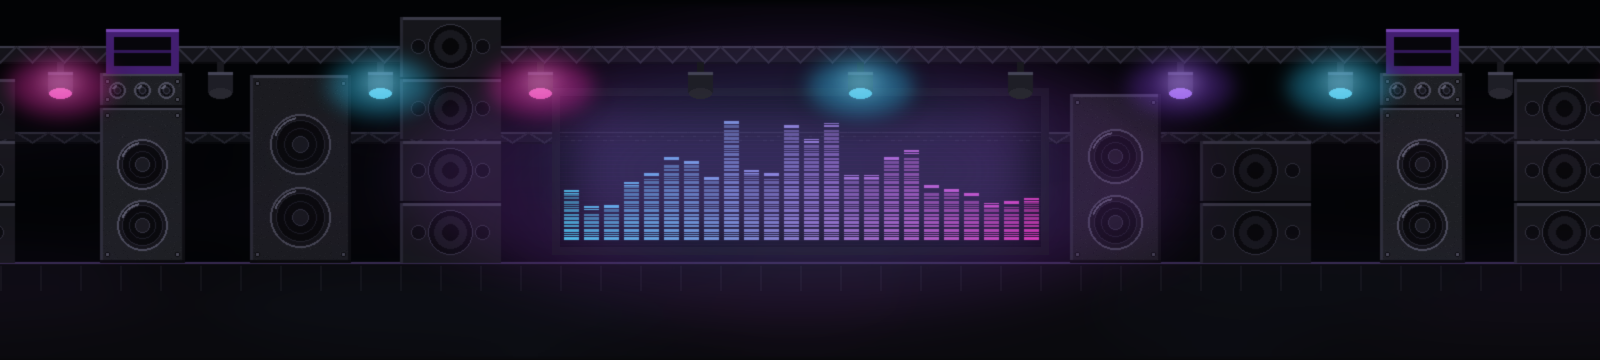
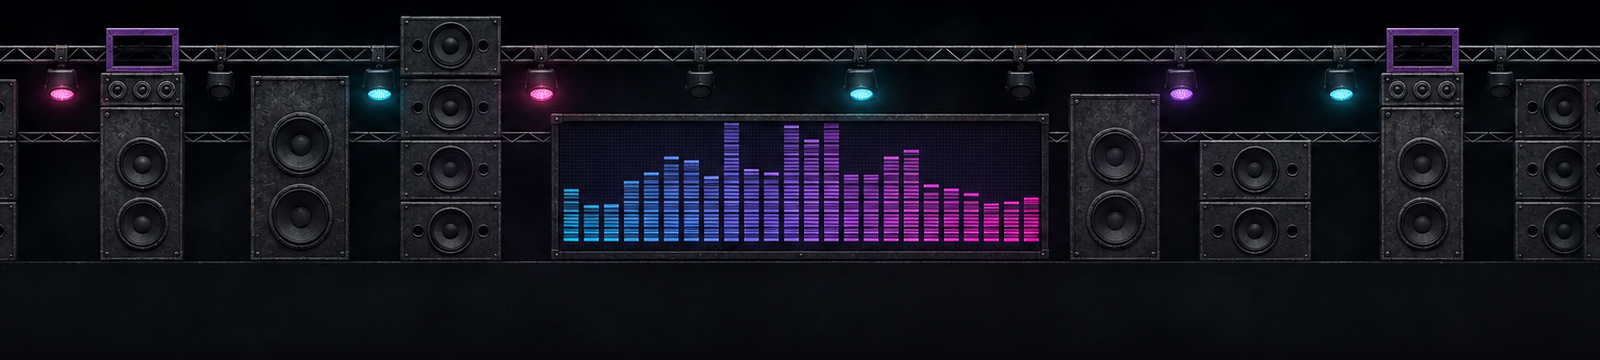
fix: ai v1

diff --git a/src/config/sceneryThemes.js b/src/config/sceneryThemes.js
@@ -45,10 +45,10 @@ export const SCENERY_THEMES = {
     ground: 0x262b29,
   },
   concert: {
-    // dark speaker-stack concert stage, procedural road + scenery (tools/gen-concert-assets.py)
+    // dark concert stage: AI-restyled scenery (layout drawing, road, glow and crowd layers from tools/gen-concert-assets.py)
     road: { key: 'road-concert', file: 'assets/bg/road-concert.png' },
     scenery: { key: 'scenery-concert', file: 'assets/bg/scenery-concert.png' },
-    sky: 0x020305,
+    sky: 0x000003,
     ground: 0x242427,
     // two-frame crowd silhouettes (arms down / arms up, neighbours opposite), swapped on the beat by src/crowdSway.js
     crowd: [

diff --git a/tools/gen-concert-assets.py b/tools/gen-concert-assets.py
@@ -1,15 +1,21 @@
 #!/usr/bin/env python3
-"""Generate the dark concert-stage road + scenery pair per docs/image-assets.md.
+"""Generate the concert road, glow and crowd layers and the stage LAYOUT drawing per docs/image-assets.md.
 
     uv run --with pillow python tools/gen-concert-assets.py [--preview DIR]
 
 Writes public/assets/bg/road-concert.png     1600x540  tiles left<->right, not vertically
-       public/assets/bg/scenery-concert.png  1600x360  tiles left<->right
+       public/assets/bg/scenery-concert-glow-{magenta,cyan,wall}.png   additive glow layers
+       public/assets/bg/scenery-concert-crowd-{a,b}.png               crowd frames
+It does NOT write public/assets/bg/scenery-concert.png (1600x360): the shipped stage is an AI restyle
+of the layout drawing below (like gen-desert-assets.py), made once with Codex's image model and
+prepped with tools/prep-scenery-image.py (docs/image-assets.md). The procedural stage is kept as the
+layout drawing, written only to --preview DIR/scenery-full.png. The glow images are keyed to that
+layout (lamp heads, LED wall), so any regenerated stage must keep lamps and wall in place.
 
-A big dark stage seen from the crowd side: lighting truss across the top with a
+The layout drawing is a big dark stage seen from the crowd side: lighting truss across the top with a
 few magenta / purple / cyan lamp heads, tall speaker stacks, an LED wall with an
-equaliser pattern, drifting haze, and a foreground of crowd silhouettes (some
-with raised arms). Near-black base with restrained saturated accents so the
+equaliser pattern, drifting haze, and the crowd band left
+as a clear dark deck. Near-black base with restrained saturated accents so the
 runner, obstacles and DiscoLights beams stay readable. The road is a dark
 stage-floor / barrier lane with faint reflections; like the underground road it
 bakes no bright lane lines, only a faint dark seam at y = 180 / 360.
@@ -479,24 +485,25 @@ def write_preview(road, bg, prev_dir):
         both.paste(bg, (k * W, 0))
         both.paste(road, (k * W, BG_H))
     both.save(os.path.join(prev_dir, "tiled-twice.png"))
+    bg.save(os.path.join(prev_dir, "scenery-full.png"))
 
 
 if __name__ == "__main__":
     os.makedirs(OUT, exist_ok=True)
     road = make_road()
-    bg = make_bg()
+    layout = make_bg()
     road.save(os.path.join(OUT, "road-concert.png"))
-    bg.save(os.path.join(OUT, "scenery-concert.png"))
     for name, frame in (("a", make_crowd(0)), ("b", make_crowd(1))):
         frame.save(os.path.join(OUT, f"scenery-concert-crowd-{name}.png"))
     for name, glow_img in make_glows().items():
         glow_img.save(os.path.join(OUT, f"scenery-concert-glow-{name}.png"))
         seam_check(glow_img.convert("RGB"), f"glow-{name}")
     seam_check(road, "road")
-    seam_check(bg, "scenery")
-    print("sky (scenery top row)", hex_of(row_avg(bg, 0)),
+    shipped = Image.open(os.path.join(OUT, "scenery-concert.png")).convert("RGB")
+    seam_check(shipped, "shipped scenery")
+    print("sky (shipped scenery top row)", hex_of(row_avg(shipped, 0)),
           " ground (road bottom row)", hex_of(row_avg(road, ROAD_H - 1)))
-    print("horizon: scenery bottom row", hex_of(row_avg(bg, BG_H - 1)),
+    print("horizon: shipped scenery bottom row", hex_of(row_avg(shipped, BG_H - 1)),
           " road top row", hex_of(row_avg(road, 0)))
     if "--preview" in sys.argv:
-        write_preview(road, bg, sys.argv[sys.argv.index("--preview") + 1])
+        write_preview(road, layout, sys.argv[sys.argv.index("--preview") + 1])

diff --git a/tests/tools/test_concert_assets.py b/tests/tools/test_concert_assets.py
@@ -1,5 +1,6 @@
 import importlib.util
 import os
+import re
 import unittest
 
 from PIL import Image
@@ -9,6 +10,14 @@ spec = importlib.util.spec_from_file_location(
     'gen_concert_assets', os.path.join(ROOT, 'tools', 'gen-concert-assets.py'))
 mod = importlib.util.module_from_spec(spec)
 spec.loader.exec_module(mod)
+
+
+def theme_hex(field):
+    with open(os.path.join(ROOT, 'src', 'config', 'sceneryThemes.js')) as f:
+        src = f.read()
+    block = re.search(r'concert:\s*{(.*?)\n  },', src, re.S).group(1)
+    v = int(re.search(field + r':\s*0x([0-9a-fA-F]{6})', block).group(1), 16)
+    return (v >> 16, (v >> 8) & 255, v & 255)
 
 
 class ConcertGlowTest(unittest.TestCase):
@@ -41,7 +50,8 @@ class ConcertCrowdTest(unittest.TestCase):
     @classmethod
     def setUpClass(cls):
         cls.frames = [mod.make_crowd(0), mod.make_crowd(1)]
-        cls.bg = mod.make_bg()
+        cls.bg = Image.open(os.path.join(ROOT, 'public', 'assets', 'bg', 'scenery-concert.png')).convert('RGB')
+        cls.road = Image.open(os.path.join(ROOT, 'public', 'assets', 'bg', 'road-concert.png')).convert('RGB')
 
     def test_size_and_mode(self):
         for im in self.frames:
@@ -66,13 +76,30 @@ class ConcertCrowdTest(unittest.TestCase):
             for y in range(mod.CROWD_H):
                 self.assertLess(abs(al.getpixel((0, y)) - al.getpixel((mod.W - 1, y))), 130)
 
-    def test_base_scenery_has_no_crowd_and_valid_edges(self):
-        band = self.bg.crop((0, 300, mod.W, mod.BG_H - 6))
-        self.assertLess(max(max(px) for px in band.getdata()), 45)
-        self.assertEqual(mod.row_avg(self.bg, 0), mod.SKY)
+    def test_shipped_scenery_size_and_sky(self):
+        self.assertEqual(self.bg.size, (mod.W, mod.BG_H))
+        want = theme_hex('sky')
+        got = mod.row_avg(self.bg, 0)
+        for g, w in zip(got, want):
+            self.assertLessEqual(abs(g - w), 1)
+
+    def test_shipped_scenery_seam_and_horizon(self):
+        for y in range(mod.BG_H):
+            a, b = self.bg.getpixel((0, y)), self.bg.getpixel((mod.W - 1, y))
+            self.assertLessEqual(max(abs(p - q) for p, q in zip(a, b)), 12)
         bottom = mod.row_avg(self.bg, mod.BG_H - 1)
-        for got, want in zip(bottom, mod.LIP):
-            self.assertLessEqual(abs(got - want), 2)
+        road_top = mod.row_avg(self.road, 0)
+        for g, w in zip(bottom, road_top):
+            self.assertLessEqual(abs(g - w), 2)
+
+    def test_shipped_scenery_bottom_band_is_clear_dark_deck(self):
+        band = self.bg.crop((0, 300, mod.W, mod.BG_H - 6))
+        self.assertLess(max(max(px) for px in band.getdata()), 60)
+
+    def test_road_ground_matches_theme(self):
+        want = theme_hex('ground')
+        for g, w in zip(mod.row_avg(self.road, mod.ROAD_H - 1), want):
+            self.assertLessEqual(abs(g - w), 1)
 
 
 if __name__ == '__main__':

diff --git a/CLAUDE.md b/CLAUDE.md
@@ -33,7 +33,7 @@ Tests use `node --test` and live in `tests/`, so anything under test must stay i
 - `ObstacleSpawner` — spawns the authored waves (`new ObstacleSpawner(scene, waves = WAVES)`; `GameScene` passes `WAVES_HARD` on Hard) from `src/config/waves.js`, timed off song time (passed in from the Conductor) so obstacles arrive at the player on the beat; scroll speed is the player's actual speed, while spawn timing uses a separate `timingSpeed`. The authored waves are flattened once in the constructor into an arrival-sorted `pending` list with a spawn cursor (`next`), so the per-frame scan only covers the lookahead window. Each obstacle gets a deterministic character sprite from `src/config/obstacleSprites.js` (`spriteFor`, avoiding a same-wave repeat), rendered origin `(0,1)` so its left edge and feet line match the sprite's `hw` and shadow (`docs/image-assets.md` "Obstacle character sprites"); the collision box is narrower than the art — `hw × OBSTACLE_HITBOX_SCALE` (`gameConfig.js`), shrunk around the same centre, collision only (art, shadow and spawn timing keep the full `hw`); falls back to the old placeholder rectangle if no sprites are configured
 - `Enemy` — chases from the left; its speed ramps from `ENEMY_SPEED` to `ENEMY_CRUISE_SPEED` anchored to song time, pinning the player into a narrow speed band near max. Tracks the player's row instantly during the intro; once beat sync is on it steps onto the row only on beat crossings, so row-dodging buys up to one beat of separation. Uses the same `RunCycle` helper as `Player` for its visual, with its own `ENEMY_FRAME_COUNT`/`ENEMY_SPRITE_HH` frame set; `GameScene` calls `syncFrame()`/`pulse()` on both the player and the enemy together — each walks at its own `*_RUN_STEPS_PER_BEAT` rate off the same beat grid, and they bounce in lockstep
 - `SpinBikes` — `new SpinBikes(scene, conductor)`: a row of `BIKE_COUNT` front-facing (toward the camera, symmetric) cel-shaded riders (tapered outlined limbs with round joints, oval head with ears, tank/shorts/sneakers/hair per rider from the `BIKE_SKINS`/`BIKE_TOPS`/`BIKE_SHORTS`/`BIKE_HAIR` palettes) on dark stationary spin bikes (floor stabiliser, edge-on flywheel, post, handlebar) with an accent rim light (`BIKE_COLORS`, `BIKE_RIM_ALPHA`), drawn each frame with an invisible Phaser Graphics at `BIKE_RENDER_SCALE`× into a RenderTexture (strip of the scenery height, `STRIP_MARGIN` px past each screen edge) shown scaled back down for smooth edges (no image assets; every part is an outline underlay in `BIKE_OUTLINE_COLOR` then fills with a `shade()` shadow side, light from the upper left), at depth `BIKE_DEPTH` (−9.5, between the scenery strip and the dim overlay). `GameScene` calls `update(section, songMs, worldDx)` right after `scenery.scroll`: the row enters at the right edge on a `bikes` section's first frame (`bikeRowStartX` estimates the x for `?t=` seeks), then accumulates `worldDx × SCENERY_PARALLAX` so it drifts with the backdrop, and keeps drifting after the section ends until its right edge is off-screen left, then hides (`finished` blocks re-entry until a non-bikes frame). Pose is stateless from the beat grid (`conductor.phaseMs`): crank turns once per `BIKE_PEDAL_BEATS`, each leg a 2-bone IK (`legIK`) solved in the sagittal plane from hip to pedal and projected to the screen by `frontLeg` (y kept, knee splayed outward by `BIKE_SPLAY` × forward depth; legs half a turn apart), arms raised and waving on the beat grid (`armLean`/`armPose`): every rider in unison snaps within `BIKE_ARM_HIT_FRAC` of the wave period (1/`BIKE_WAVE_HITS_PER_BEAT` beat; 2 = every half beat) after each hit to a lean toward screen-right on even hits / screen-left on odd (both straight arms stay parallel, pointing straight up between hits, and swing together, toward the front at azimuth `BIKE_ARM_FORWARD_DEG` and projected like the legs so they foreshorten, with the fist scaled by depth via `BIKE_ARM_HAND_DEPTH_SCALE`) (`conductor.gridIndex(BIKE_WAVE_HITS_PER_BEAT)` parity), overshoots the pose by `BIKE_ARM_OVERSHOOT` and settles back over `BIKE_ARM_SETTLE_FRAC`, holds `BIKE_ARM_HOLD_FRAC` of the period, relaxes to `BIKE_ARM_RELAX` of the lean, then rests there (straight up) for the last `BIKE_ARM_REST_FRAC` of the period before the next hit; pedalling is in unison too. Mode `'grip'` instead keeps both hands on the bar ends (`gripArm`: `legIK` elbow flared outward) while shoulders sit `BIKE_GRIP_HUNCH_PX` low (rising `BIKE_SHOULDER_BOB_PX` at a full nod) and the head nods (`headNod(gripDip)`: sinks `BIKE_NOD_DROP_PX`, the hair/cap edge slides down the head so the crown shows and the eyes hide, `BIKE_NOD_*`) — fully down for `BIKE_DIP_HIT_MS` on each beat, back up by mid-beat. Ponytail/bun swing (`BIKE_HAIR_SWING_PX`) replays the nod / arm lean `BIKE_HAIR_LAG_MS` late (`laggedBeat`). Pure maths in `src/spinBikes.js`
-- `Scenery` — the road + background scenery strip, a themed pair from the `SCENERY_THEMES` table (`src/config/sceneryThemes.js`), chosen by song-time **stages** (`src/config/stages.js`: `STAGES` `{ name, startMs, theme }`, pure `stageAt(songMs)`; `suburb` → `suburbDay` → `desert` (AI backdrop over a procedural layout + road, `tools/gen-desert-assets.py`, from 53156 ms) → `underground` (dim tiled underpass, procedural road + scenery, `tools/gen-underground-assets.py`, from 59134 ms) → placeholders reusing existing themes): a theme may carry an optional `tint` (0xRRGGBB, omitted = unchanged; `suburbDay` darkens its light art) multiplied onto its strips via `setTint` and onto its sky/ground fills via `multiplyColor`, applied per layer set so it crossfades with it; `Scenery` is built with `stageAt(getStartMs())`'s theme and `GameScene` calls `scenery.setBlend(...stageBlend(songMs, STAGE_FADE_BEATS * BEAT_MS))` every frame — the pure `stageBlend` (`src/config/stages.js`) returns `{ from, to, t }`: a stage change crossfades over `STAGE_FADE_BEATS` (`gameConfig.js`, 4 beats; 0 = hard cut) starting at the stage's `startMs`, previous theme into the new one, with `t = 1` and `from === to` otherwise (the first stage never fades). A stage with `cut: true` skips the fade and hard-cuts at its `startMs` (`stage4`, under the `WallBreak` flash). `Scenery` keeps two identical layer sets (strips/fills at −10/−11 for the base showing `from`; an overlay at −9.9/−10.9 showing `to` at alpha `t`, hidden once settled so there is no double draw), only calling `setTexture`/`setFillStyle` when a set's theme changes, and `scroll()` advances both sets together; stateless from song time so `?t=` seeks just work. `BootScene` preloads every theme used in `STAGES`; stage times must sit on a real track beat, which `yarn check:beats` verifies (report only, startMs 0 exempt). A theme may also carry an optional `flicker` ({ key, file }, preloaded by `BootScene`): an RGBA glow image (one plain `Image`, depth −9.95 between the base and overlay strips, tinted like the base theme) that `GameScene` drives every frame with `scenery.setFlicker(lampFlicker(songMs, BEAT_MS))` before `setBlend`/`scroll`. The strip tiles every texture width, but only ONE copy of the lamp flickers: when the stage is settled and the level first goes above 0, the pure `firstCopyFromRight` (`src/lampFlicker.js`, using the theme's `flicker.lampX` in texture px) picks the first copy whose lamp is just off the right edge, and `scroll()` pins the image to that copy (`copyScreenX`, from the strip's `tilePositionX`) so it enters from the right once and drifts off left while later copies stay dead (the choice resets when the base theme changes). Alpha is the level, forced to 0 for the whole stage crossfade (the glow is one theme's lit art behind a hard-edged mask, so over a half-faded mix it shows as a patch). The pure, stateless `lampFlicker` (`src/lampFlicker.js`, tuned by `LAMP_FLICKER_*` in `gameConfig.js`) models a dying tube: mostly dark, burst beats of rapid on/off slots, rare dim blips; `underground` uses it to light its dead lamp (`make_flicker` in `tools/gen-underground-assets.py`). A theme may also carry `crowd` (`[{ key, file }, { key, file }]`, preloaded by `BootScene`; only `concert`): two transparent crowd-silhouette frames (`tools/gen-concert-assets.py`; the base scenery has no crowd so the stage art can be restyled) that `Scenery` draws as one `tileSprite` locked to the scenery's `tilePositionX` at depth −9.85 (over the base, pulse glow and crossfade overlay so people occlude the light behind them; under SpinBikes, the dim and every row). `GameScene` calls `scenery.setCrowdFrame(crowdFrame(conductor.beatTimeMs, BEAT_MS, CROWD_SWAPS_PER_BEAT))`; the pure `crowdFrame` (`src/crowdSway.js`, floor/mod safe, `CROWD_SWAPS_PER_BEAT` 0 pins frame 0) alternates 0/1 every 1/N beat, neighbours being in opposite poses so the crowd ripples. The crowd follows its theme through a crossfade (alpha t as the incoming theme, 1 − t as the outgoing one, full when settled). A theme may also carry `pulse` (`[{ key, file, group }]`, preloaded by `BootScene`; only `concert`): additive glow images (lamp halos/lenses per colour group + the LED wall, `tools/gen-concert-assets.py`) that `Scenery` draws as ADD-blend `tileSprite`s locked to the scenery's `tilePositionX` (depth −9.95, so EVERY tile copy pulses, unlike `flicker`), plus a whole-strip additive brightness-lift rectangle (−9.96, `PULSE_LIFT_COLOR`) under them. `GameScene` calls `scenery.setPulse(beatPulse(conductor.beatTimeMs, BEAT_MS))` every frame; the pure `beatPulse` (`src/beatPulse.js`, stateless so `?t=` seeks and negative times just work, tuned by `PULSE_*` in `gameConfig.js`) returns `{ lift, groups }`: each `PULSE_GROUPS` entry fires on beat-grid slots with `slot mod every === offset` (`divisions` per beat; default magenta on even beats, cyan on odd, wall every half beat) and ease-outs over `decay` slots, scaled by `PULSE_GLOW_STRENGTH`; the lift is `PULSE_LIFT_STRENGTH` fading over `PULSE_LIFT_DECAY_BEATS` each beat; a strength of 0 disables that layer. `Scenery.updatePulse` shows them only while the settled base theme owns them (zero during a crossfade like `flicker`; gated on stage song time, independent of `BEAT_SYNC_START_MS`); they sit below the dim overlay, so dimmed sections darken them. Both layers are `tileSprite`s (`setTileScale(0.5, 0.5)` since the art is authored at 2× logical size) oversized in x to cover the circle the `rotate` section's zoomed-out, spinning camera sweeps, with flat-colour sky/ground rectangles filling in beyond that; `scroll(dxWorldPx)` advances the road's `tilePositionX` and the scenery's at `SCENERY_PARALLAX` (`gameConfig.js`, 0.2) of that, so the backdrop drifts slower than the road and reads as further away (0 = static). It also owns the dim-section row divider lines: dashed lane-line `tileSprite`s (one generated dash+gap texture, scrolled with the road in `scroll()`) at `rowBoundaryYs()` (`src/rowLayout.js`) drawn above the disco dim (depth −5.5) because the road art's own lane lines sit under it; `GameScene` drives them with `setRowLines(dimFade, color, shown)` so they fade with the dim, take the fixed `DISCO_ROW_LINE_COLOR` under `lights` (a pastel outside `DISCO_COLORS`, so they never blend into a beam or the beat flash; white `DIM_ROW_LINE_COLOR` otherwise) and, under `lights` only, blink with a hard cut on the beat grid (steady in other dimmed sections such as `lightsOut`, where the lights-out overlay hides them while dark) — shown for `DIM_ROW_LINE_BLINK_BEATS` beats, then hidden for the same (`conductor.gridIndex`; `DIM_ROW_LINE_*` in `gameConfig.js`)
+- `Scenery` — the road + background scenery strip, a themed pair from the `SCENERY_THEMES` table (`src/config/sceneryThemes.js`), chosen by song-time **stages** (`src/config/stages.js`: `STAGES` `{ name, startMs, theme }`, pure `stageAt(songMs)`; `suburb` → `suburbDay` → `desert` (AI backdrop over a procedural layout + road, `tools/gen-desert-assets.py`, from 53156 ms) → `underground` (dim tiled underpass, procedural road + scenery, `tools/gen-underground-assets.py`, from 59134 ms) → `concert` (AI restyle of a procedural stage layout + procedural road, glow and crowd layers, `tools/gen-concert-assets.py`, from 63518 ms; `sky` 0x000003) → placeholders reusing existing themes): a theme may carry an optional `tint` (0xRRGGBB, omitted = unchanged; `suburbDay` darkens its light art) multiplied onto its strips via `setTint` and onto its sky/ground fills via `multiplyColor`, applied per layer set so it crossfades with it; `Scenery` is built with `stageAt(getStartMs())`'s theme and `GameScene` calls `scenery.setBlend(...stageBlend(songMs, STAGE_FADE_BEATS * BEAT_MS))` every frame — the pure `stageBlend` (`src/config/stages.js`) returns `{ from, to, t }`: a stage change crossfades over `STAGE_FADE_BEATS` (`gameConfig.js`, 4 beats; 0 = hard cut) starting at the stage's `startMs`, previous theme into the new one, with `t = 1` and `from === to` otherwise (the first stage never fades). A stage with `cut: true` skips the fade and hard-cuts at its `startMs` (`stage4`, under the `WallBreak` flash). `Scenery` keeps two identical layer sets (strips/fills at −10/−11 for the base showing `from`; an overlay at −9.9/−10.9 showing `to` at alpha `t`, hidden once settled so there is no double draw), only calling `setTexture`/`setFillStyle` when a set's theme changes, and `scroll()` advances both sets together; stateless from song time so `?t=` seeks just work. `BootScene` preloads every theme used in `STAGES`; stage times must sit on a real track beat, which `yarn check:beats` verifies (report only, startMs 0 exempt). A theme may also carry an optional `flicker` ({ key, file }, preloaded by `BootScene`): an RGBA glow image (one plain `Image`, depth −9.95 between the base and overlay strips, tinted like the base theme) that `GameScene` drives every frame with `scenery.setFlicker(lampFlicker(songMs, BEAT_MS))` before `setBlend`/`scroll`. The strip tiles every texture width, but only ONE copy of the lamp flickers: when the stage is settled and the level first goes above 0, the pure `firstCopyFromRight` (`src/lampFlicker.js`, using the theme's `flicker.lampX` in texture px) picks the first copy whose lamp is just off the right edge, and `scroll()` pins the image to that copy (`copyScreenX`, from the strip's `tilePositionX`) so it enters from the right once and drifts off left while later copies stay dead (the choice resets when the base theme changes). Alpha is the level, forced to 0 for the whole stage crossfade (the glow is one theme's lit art behind a hard-edged mask, so over a half-faded mix it shows as a patch). The pure, stateless `lampFlicker` (`src/lampFlicker.js`, tuned by `LAMP_FLICKER_*` in `gameConfig.js`) models a dying tube: mostly dark, burst beats of rapid on/off slots, rare dim blips; `underground` uses it to light its dead lamp (`make_flicker` in `tools/gen-underground-assets.py`). A theme may also carry `crowd` (`[{ key, file }, { key, file }]`, preloaded by `BootScene`; only `concert`): two transparent crowd-silhouette frames (`tools/gen-concert-assets.py`; the base scenery has no crowd so the stage art can be restyled) that `Scenery` draws as one `tileSprite` locked to the scenery's `tilePositionX` at depth −9.85 (over the base, pulse glow and crossfade overlay so people occlude the light behind them; under SpinBikes, the dim and every row). `GameScene` calls `scenery.setCrowdFrame(crowdFrame(conductor.beatTimeMs, BEAT_MS, CROWD_SWAPS_PER_BEAT))`; the pure `crowdFrame` (`src/crowdSway.js`, floor/mod safe, `CROWD_SWAPS_PER_BEAT` 0 pins frame 0) alternates 0/1 every 1/N beat, neighbours being in opposite poses so the crowd ripples. The crowd follows its theme through a crossfade (alpha t as the incoming theme, 1 − t as the outgoing one, full when settled). A theme may also carry `pulse` (`[{ key, file, group }]`, preloaded by `BootScene`; only `concert`): additive glow images (lamp halos/lenses per colour group + the LED wall, `tools/gen-concert-assets.py`) that `Scenery` draws as ADD-blend `tileSprite`s locked to the scenery's `tilePositionX` (depth −9.95, so EVERY tile copy pulses, unlike `flicker`), plus a whole-strip additive brightness-lift rectangle (−9.96, `PULSE_LIFT_COLOR`) under them. `GameScene` calls `scenery.setPulse(beatPulse(conductor.beatTimeMs, BEAT_MS))` every frame; the pure `beatPulse` (`src/beatPulse.js`, stateless so `?t=` seeks and negative times just work, tuned by `PULSE_*` in `gameConfig.js`) returns `{ lift, groups }`: each `PULSE_GROUPS` entry fires on beat-grid slots with `slot mod every === offset` (`divisions` per beat; default magenta on even beats, cyan on odd, wall every half beat) and ease-outs over `decay` slots, scaled by `PULSE_GLOW_STRENGTH`; the lift is `PULSE_LIFT_STRENGTH` fading over `PULSE_LIFT_DECAY_BEATS` each beat; a strength of 0 disables that layer. `Scenery.updatePulse` shows them only while the settled base theme owns them (zero during a crossfade like `flicker`; gated on stage song time, independent of `BEAT_SYNC_START_MS`); they sit below the dim overlay, so dimmed sections darken them. Both layers are `tileSprite`s (`setTileScale(0.5, 0.5)` since the art is authored at 2× logical size) oversized in x to cover the circle the `rotate` section's zoomed-out, spinning camera sweeps, with flat-colour sky/ground rectangles filling in beyond that; `scroll(dxWorldPx)` advances the road's `tilePositionX` and the scenery's at `SCENERY_PARALLAX` (`gameConfig.js`, 0.2) of that, so the backdrop drifts slower than the road and reads as further away (0 = static). It also owns the dim-section row divider lines: dashed lane-line `tileSprite`s (one generated dash+gap texture, scrolled with the road in `scroll()`) at `rowBoundaryYs()` (`src/rowLayout.js`) drawn above the disco dim (depth −5.5) because the road art's own lane lines sit under it; `GameScene` drives them with `setRowLines(dimFade, color, shown)` so they fade with the dim, take the fixed `DISCO_ROW_LINE_COLOR` under `lights` (a pastel outside `DISCO_COLORS`, so they never blend into a beam or the beat flash; white `DIM_ROW_LINE_COLOR` otherwise) and, under `lights` only, blink with a hard cut on the beat grid (steady in other dimmed sections such as `lightsOut`, where the lights-out overlay hides them while dark) — shown for `DIM_ROW_LINE_BLINK_BEATS` beats, then hidden for the same (`conductor.gridIndex`; `DIM_ROW_LINE_*` in `gameConfig.js`)
 
 - `WallBreak` — `new WallBreak(scene)`; `GameScene` calls `update(songMs, worldDx, player.row)` right after `spinBikes.update`. A wall seen **edge-on** — one procedural `Graphics` (no wall textures) drawn in local coordinates and only moved per frame: a full-height near-black line `WALL_LINE_WIDTH` (6) px wide from `WALL_LINE_TOP` down, a 1px cold rim light on its left edge, a small concrete cap and a faint dark shadow strip fading out on its right (`WALL_GLOW_*`) — scrolls in during the desert stage; before `WALL_BREAK_MS` its x is the pure `wallX(songMs)` (`src/wallBreak.js`, at `OBSTACLE_TIMING_SPEED`, speedMult 1) so its left edge meets the runner exactly on the beat and `?t=` seeks just work. On the first frame at/after impact it is redrawn once with a gap broken out on the player's row — `wallGap(row)`: the runner's head to feet (`runnerSpan`, padded by `WALL_GAP_PAD_*`), fixed from then on — with jagged stubs at both ends (`gapStubs(row)`: teeth hanging into the gap plus sideways splinters, deterministic); the rest of the line follows the actual `worldDx` until off-screen left. Drawn at `WALL_DEPTH` (above every row). A live impact (first broken frame within `WALL_LATE_MS`) bursts pooled shards (black/dark-grey rectangles `WALL_DEBRIS_COLORS` with a light `WALL_DEBRIS_EDGE_COLOR` outline so they read on the night road) + bluish-grey dust puffs (a soft canvas texture `wall-dust` generated at runtime, once), both stateless from time since impact (`debrisState`/`dustState`, shards landing as rubble on the road), and also draws ~10 thin impact crack lines at the runner's chest height for `WALL_CRACK_MS` (`crackLines`/`crackAlpha`, drawn once, live impacts only), and returns true so `GameScene` fires a one-shot `WALL_FLASH_ALPHA` on the strobe overlay and plays the one-shot `breakwall` SFX (`public/assets/sfx/breakwall.wav`, preloaded by `BootScene`, loudness via the global user volume), covering `stage4`'s hard cut into underground (during the approach the line is the left side of `StationBuilding` below); `wallShake(songMs)` is added to the camera scroll beside `jitterOffset`. All `WALL_*` in `gameConfig.js`
 - `StationBuilding` — `new StationBuilding(scene)`; `GameScene` calls `update(songMs)` just before `wallBreak.update`. A generic subway entrance (no real brand: a down arrow + block-letter bars on a lit sign) whose left side is the wall, so the underground the runner breaks into reads as hidden inside it. Its front **covers everything right of the wall** — scenery, road, lane lines, row shadows and obstacles — so the underground is only seen after the break: one `Image` (`STATION_IMAGE`, `public/assets/station-building.png`, authored at 2x, preloaded by `BootScene`, origin 0,0, display size `STATION_WIDTH` × (`STATION_BOTTOM` − `WALL_LINE_TOP`), x from the wall's left edge, top at the wall's cap height (`WALL_LINE_TOP`), down past the screen bottom (`STATION_BOTTOM` = `GAME_HEIGHT + WALL_OFFSCREEN_PAD`)) that is only moved per frame. The picture is an old, weathered desert subway entrance restyled by Codex's image model from a flat export of the earlier procedural drawing, so the doorway (`STATION_DOOR_*`, a near-black stairwell with sand heaped over its top steps), canopy, sign, route-map panels and plinth sit where the code and tests assume; `tools/prep-station-image.py` resizes the raw output and weathers the plinth band, and the exact `codex exec` command, the prompt and the layout/stretch notes are in `docs/image-assets.md` ("Station building"). Its x is the pure `stationX(songMs)` (`src/stationBuilding.js`): `wallX` before `WALL_BREAK_MS` (`?t=` safe), null once off-screen right or from the impact on — it simply vanishes under the flash as `stage4` cuts to underground. `STATION_WIDTH` keeps it running off the right edge for the whole approach. Depth `STATION_DEPTH` (2.5): above every row (0..2), their shadows (row − 0.5) and afterimages, below the wall line (`WALL_DEPTH` 3), the strobe and the HUD; the player and chaser stay left of the wall until the impact (only the front-row runner's leading foot reaches past it in the last ~45 ms). Because obstacles right of the wall are hidden, **no obstacle may arrive at or within `WALL_CLEAR_BEATS` (2) track beats after `WALL_BREAK_MS`** (pure `inWallClearWindow` in `src/wallBreak.js`, `tests/wallClear.test.js` checks both charts; `tools/gen-waves.py` enforces it when generating). All `STATION_*` in `gameConfig.js`

diff --git a/docs/image-assets.md b/docs/image-assets.md
@@ -481,16 +481,42 @@ first lamp to scroll in from the right, `flicker.lampX`) and drives its alpha wi
 `lampFlicker()`, so only that one lamp flickers. Covered by
 `tests/tools/test_underground_assets.py`.
 
-The `concert` theme (stage 5 from 63518 ms) is also fully procedural:
-`tools/gen-concert-assets.py`
+The `concert` theme (stage 5 from 63518 ms) is made in two steps, like
+`desert`. `tools/gen-concert-assets.py`
 (`uv run --with pillow python tools/gen-concert-assets.py [--preview DIR]`)
-writes `road-concert.png` and `scenery-concert.png` (same 1600x540 / 1600x360,
-2x-authored, horizontally seamless). The scenery is a dark stage seen from the
+writes the procedural road `road-concert.png` (1600x540), the three glow layers
+and the two crowd frames below, and keeps the procedural stage as a **layout
+drawing** (written only to `DIR/scenery-full.png`, never shipped; it no longer
+writes `scenery-concert.png`). The shipped `scenery-concert.png` (1600x360,
+2x-authored, seamless, top row `sky` 0x000003, bottom row 0x09090c) is that
+drawing restyled by Codex's image model (variant v2 of three runs):
+`layout.png` is the layout drawing scaled to 1536x346 and centred vertically
+on a 1536x1024 canvas filled with its top-row colour (0x020305), then
+`codex exec --skip-git-repo-check --sandbox workspace-write -i layout.png < prompt.txt`
+(no style reference, so nothing of real people was uploaded; `OUTFILE` is the
+raw name) and
+`prep-scenery-image.py scenery raw.png --offset 0 --horizon 0x09090c`
+(offset 0 keeps the band where it was placed; it printed `sky` 0x000003).
+Shipped prompt:
+
+> Restyle layout.png as a photorealistic, straight-on flat elevation photograph (orthographic, level horizon, no perspective, no vanishing point, no lens distortion) of a big dark concert stage seen from the audience.
+>
+> LAYOUT: copy layout.png's composition EXACTLY. Keep the same position, size and shape of every element: the horizontal lighting truss across the top and the thinner second truss lower down, the ten lamp heads hanging from the truss (only the lit ones glow, in magenta, purple or cyan; the dark ones stay dead black housings), the speaker cabinets (heavy weathered grey-black concrete-like cabinets, several with a pair of large round woofers stacked one above the other, others plain stacked boxes with one round driver per cabinet, two taller stacks topped by a dim purple open box frame), and the big LED wall in the right-centre showing an equaliser bar display in cyan-to-magenta. Do not add, remove or move elements. The reference sits in the middle of a larger near-black 1536x1024 canvas; output the same 1536x1024 size with the same composition, and keep the near-black canvas above and below.
+>
+> LOOK: moody cinematic concert-film grade, near-black stage, faint drifting haze, subtle weathered texture and fine grain on the cabinets, restrained saturated purple, magenta and cyan accents. Keep everything dark enough that extra glow added later on top of the lamp heads and the LED wall will still stand out; nothing may be bright or blown out.
+>
+> STRICT: no beams or cones of light, no crowd, no people, no silhouettes, no text, no letters, no logos or brand marks, no floor spill or reflections. Keep the bottom band (below the speaker cabinets, about the lowest 25% of the reference picture's height) a plain empty dark stage deck with no objects, because a crowd layer is drawn over it. The level of detail must survive being downscaled to 1600x360.
+>
+> Save the final image as a PNG file named OUTFILE in the current directory.
+
+The glow images stay keyed to the layout drawing (lamp heads, LED wall), so any
+regenerated stage must keep lamps and wall in place, and the bottom band must
+stay a clear dark deck for the crowd layer. The layout drawing is a dark stage seen from the
 crowd side: lighting truss with ten lamp heads (six lit in magenta / purple /
 cyan; no baked beam cones, DiscoLights supplies the beams), speaker columns in two mixed styles (a seeded, deterministic `speaker_columns()` assignment, no equal neighbours: concrete-look grey-black cabinets with two stacked woofers at ~60% of the cabinet width, taller ones adding a band of small drivers and a dim purple open box frame; and the older plain dark boxes with one round driver per tier, 2-4 tiers; no horns/tweeters; placed in the gaps between lamp heads, clear of the LED wall), a central LED wall with an equaliser
 pattern, drifting haze and two ranks of crowd silhouettes (some with raised
 arms, rim-lit from the stage) along the bottom. The LED wall is bright and bleeds a soft glow onto the truss and
-speakers; lit lamp heads have large halos. Top row is flat 0x020305 (`sky`), the bottom rows ease
+speakers; lit lamp heads have large halos. (Layout drawing top row 0x020305; the shipped AI stage has `sky` 0x000003.) The bottom rows ease
 into 0x09090c. The road is dark stage-floor boards with very faint coloured
 reflections and broad magenta / cyan / purple light-spill pools under the lit heads; like the underground road it bakes only a faint dark seam at
 y = 180 / 360 (no bright lane lines), top row 0x09090c, bottom row 0x242427
@@ -508,10 +534,10 @@ two poses of head-and-shoulders silhouettes with the purple/cyan rim light
 (A arms down / heads low, B arms up / heads higher, neighbours in opposite
 poses, frame b the mirror assignment of a). The theme's `crowd` list preloads
 them and `Scenery` draws one tileSprite that swaps frame on the beat
-(`src/crowdSway.js`, `CROWD_SWAPS_PER_BEAT`). The stage art itself may be
-AI-restyled later, but the base scenery must keep its bottom band (the deck,
-below y ~ 262) clear and dark so no second crowd gets painted; the crowd
-frames always come from the gen script. Accents are kept dim so the runner, obstacles and DiscoLights
+(`src/crowdSway.js`, `CROWD_SWAPS_PER_BEAT`). The shipped stage art is the AI
+restyle above, whose bottom band (the deck, below y ~ 262) stays clear and
+dark so no second crowd gets painted; the crowd frames always come from the
+gen script. Accents are kept dim so the runner, obstacles and DiscoLights
 beams stay readable.
 
 **Handling the rotate section**: the `rotate` section zooms the camera out to
